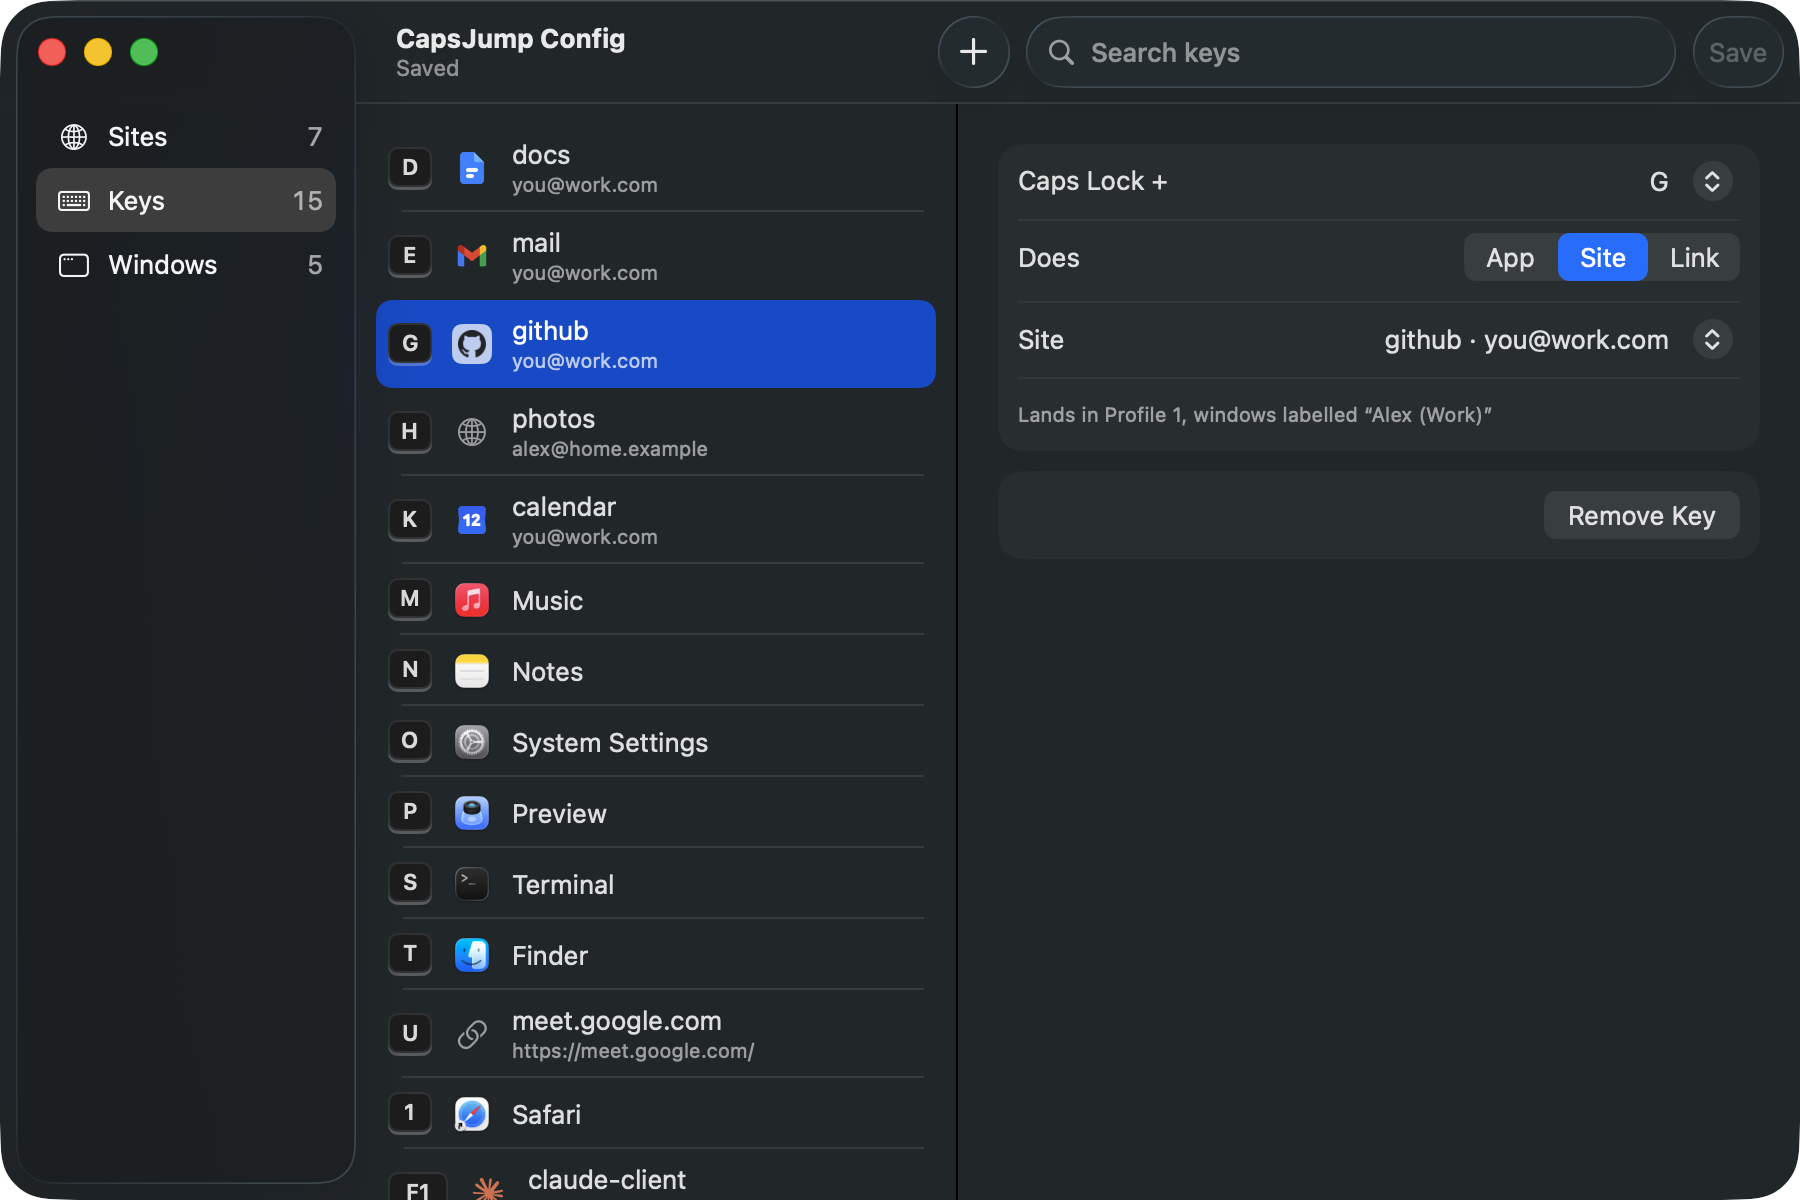
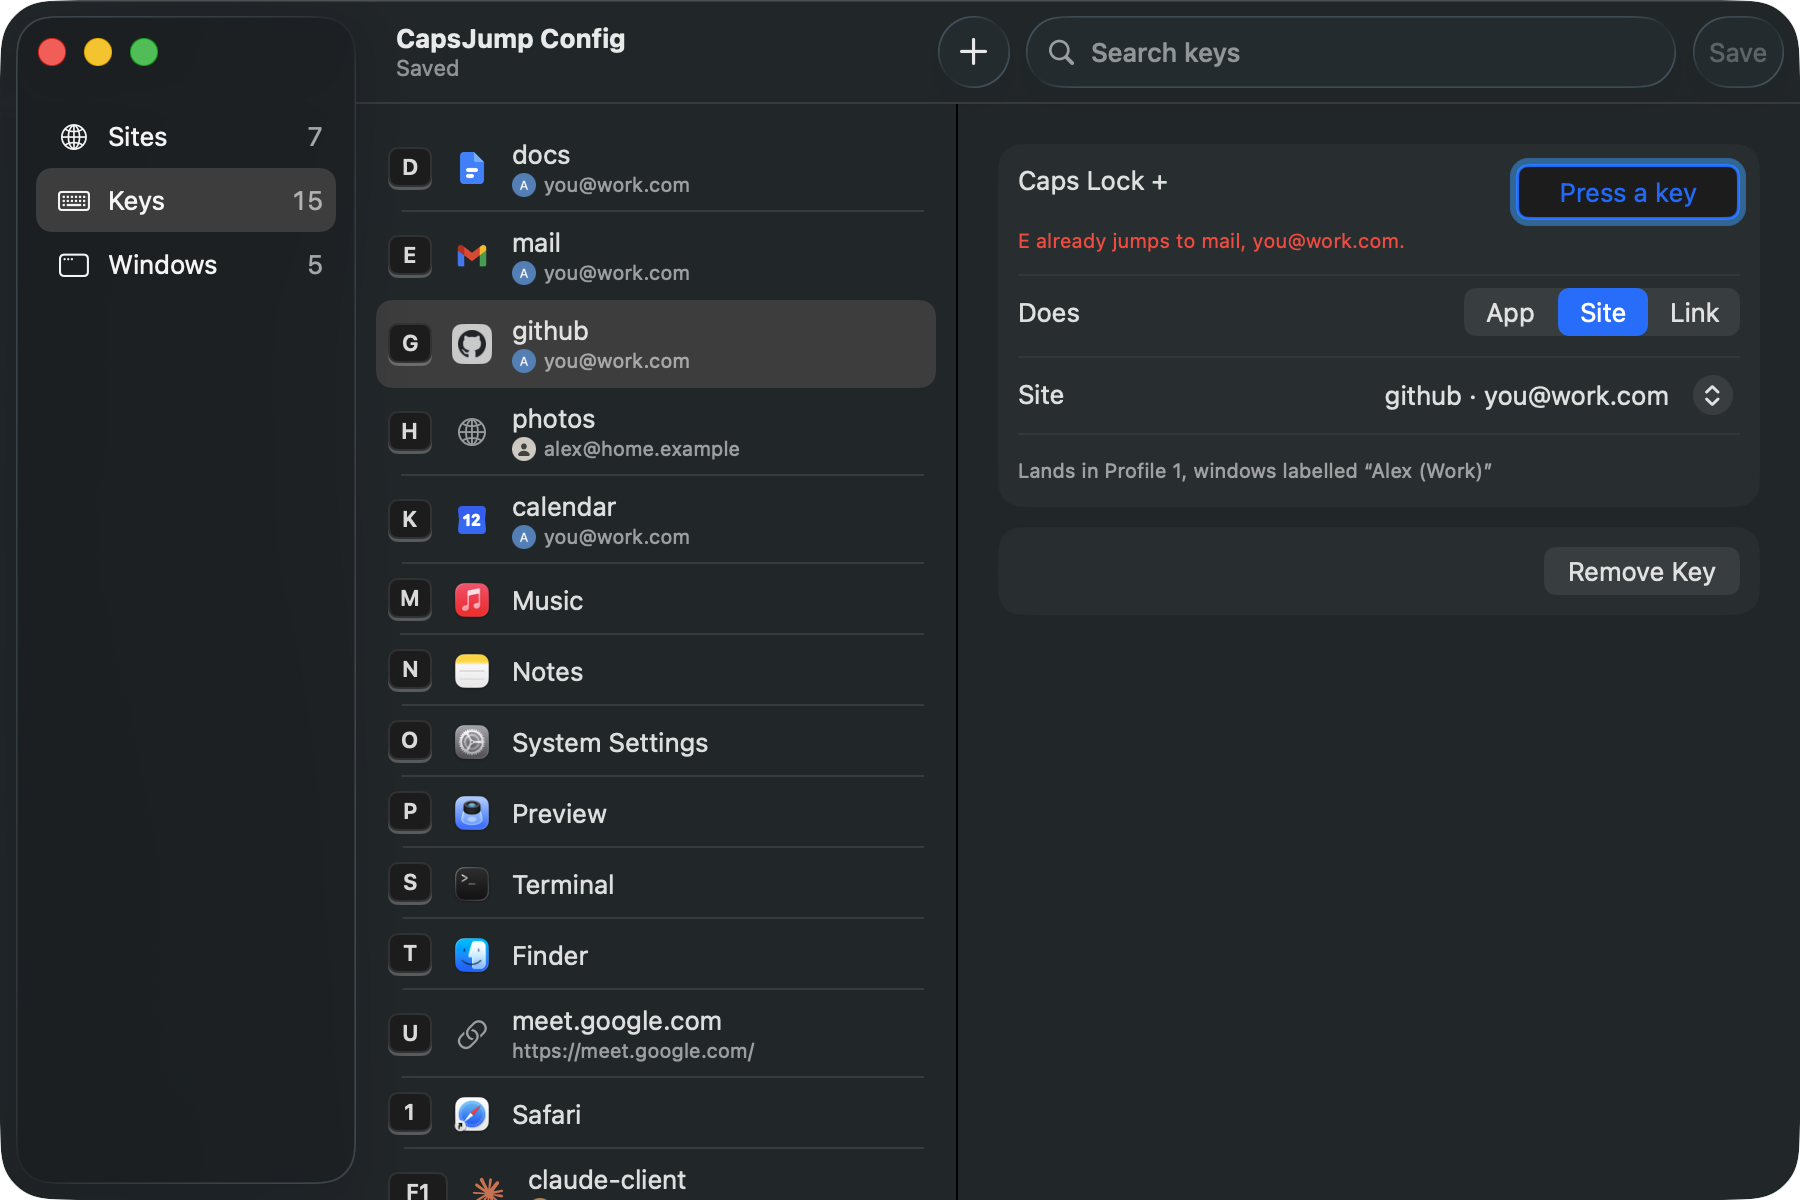
docs: the site and README show account pictures and the key field

diff --git a/site/index.html b/site/index.html
@@ -14,7 +14,7 @@
   <meta property="og:image" content="https://stigmer.github.io/capsjump/card.png">
   <meta property="og:image:width" content="1200">
   <meta property="og:image:height" content="630">
-  <meta property="og:image:alt" content="CapsJump's config window: every key as a keycap with the app's or the site's own icon and the site's account">
+  <meta property="og:image:alt" content="CapsJump's config window: every key as a keycap with the app's or the site's own icon and the account's picture, and the picked key's field waiting for a new key">
   <meta name="twitter:card" content="summary_large_image">
   <link rel="icon" href="icon.svg" type="image/svg+xml">
   <link rel="apple-touch-icon" href="icon.png">
@@ -80,7 +80,7 @@
       </article>
       <article>
         <h2>Windows</h2>
-        <p><kbd>Caps</kbd> + an arrow sends the front window to that half of the screen: <kbd>←</kbd> <kbd>→</kbd> <kbd>↑</kbd> <kbd>↓</kbd>. <kbd>Caps</kbd> + <kbd>F</kbd> and it goes big. Rather other keys? Pick them, or turn any off.</p>
+        <p><kbd>Caps</kbd> + an arrow sends the front window to that half of the screen: <kbd>←</kbd> <kbd>→</kbd> <kbd>↑</kbd> <kbd>↓</kbd>. <kbd>Caps</kbd> + <kbd>F</kbd> and it goes big. Rather other keys? Press the one you want, or turn any off.</p>
       </article>
       <article>
         <h2>Links</h2>
@@ -94,28 +94,28 @@
       <figure class="shot">
         <picture>
           <source media="(prefers-color-scheme: dark)" srcset="editor-keys-dark.png">
-          <img src="editor-keys.png" width="900" height="600" loading="lazy" alt="The config window on Keys: a sidebar with Sites, Keys and Windows, every key as a keycap with the app's icon or the site's own icon and its account, and the picked key, Caps Lock + G jumping to github, open for editing">
+          <img src="editor-keys.png" width="900" height="600" loading="lazy" alt="The config window on Keys: a sidebar with Sites, Keys and Windows, every key as a keycap with the app's icon or the site's own icon and its account's picture, and the picked key, Caps Lock + G jumping to github, its key field saying Press a key and, under it, E already jumps to mail, you@work.com">
         </picture>
-        <figcaption>Every key that takes you somewhere, on one list in keyboard order. Pick one and change what it does; the app's or the site's own icon says it found the right one. Type to search.</figcaption>
+        <figcaption>Every key that takes you somewhere, on one list in keyboard order. To change a key, click it and press the new one, with Caps Lock or without; a key that's taken says what it does already. Type to search.</figcaption>
       </figure>
       <figure class="shot">
         <picture>
           <source media="(prefers-color-scheme: dark)" srcset="editor-sites-dark.png">
-          <img src="editor-sites.png" width="900" height="600" loading="lazy" alt="The config window on Sites: each site with its own icon, its Chrome account, its host and the keys that land there, a globe for a site Chrome hasn't shown yet, and github open with its account, page and key">
+          <img src="editor-sites.png" width="900" height="600" loading="lazy" alt="The config window on Sites: each site with its own icon, its Chrome account and that account's picture, its host and the keys that land there, a globe for a site Chrome hasn't shown yet, and github open with its Account menu showing each account with its picture">
         </picture>
-        <figcaption>Each site with its own icon, its Chrome account and the keys that land on it. Rename one and its keys come along.</figcaption>
+        <figcaption>Each site with its own icon, its Chrome account (with the picture Chrome shows for it) and the keys that land on it. Rename one and its keys come along.</figcaption>
       </figure>
       <figure class="shot">
         <picture>
           <source media="(prefers-color-scheme: dark)" srcset="editor-windows-dark.png">
           <img src="editor-windows.png" width="900" height="600" loading="lazy" alt="The config window on Windows: left half, right half, top half, bottom half and whole screen, each with its key, and Top half open with a picture of the screen's upper half and Caps Lock + up arrow">
         </picture>
-        <figcaption>Every move a key can make, with the key that makes it. Change one, or turn it off.</figcaption>
+        <figcaption>Every move a key can make, with the key that makes it. Press a new one, or Delete to turn it off.</figcaption>
       </figure>
       <figure class="shot shot-small">
         <picture>
           <source media="(prefers-color-scheme: dark)" srcset="add-tab-dark.png">
-          <img src="add-tab.png" width="480" height="336" loading="lazy" alt="Add Current Tab: a Figma tab becomes a site named figma, in the Work account, on Caps Lock + I">
+          <img src="add-tab.png" width="480" height="336" loading="lazy" alt="Add Current Tab: a Figma tab becomes a site named figma, in the Work account with its picture, on Caps Lock + I">
         </picture>
         <figcaption>Page open in Chrome? <strong>Add Current Tab…</strong> names it, knows the account, offers a free key. Click Add.</figcaption>
       </figure>
@@ -158,7 +158,7 @@ capsjump init</code></pre>
       <h2>Good to know</h2>
       <ul>
         <li><strong>Chrome only, for sites.</strong> Site keys work with Google Chrome and its accounts; app, window and link keys work with anything.</li>
-        <li><strong>Site icons come from Chrome.</strong> Each site shows the icon Chrome has already saved on your Mac for that account. Nothing is fetched; a site Chrome hasn't shown there yet keeps a globe.</li>
+        <li><strong>Site icons and account pictures come from Chrome.</strong> Each site shows the icon Chrome has already saved on your Mac for that account, and each account the picture Chrome shows for it. Nothing is fetched; a site Chrome hasn't shown there yet keeps a globe.</li>
         <li><strong>Windows stay on their screen.</strong> A window snaps within the screen it is on; moving it to another screen isn't a key yet.</li>
         <li><strong>Not while typing a password.</strong> macOS keeps every app's shortcuts out of password fields; the keys work again as soon as you leave one.</li>
         <li><strong>Miss SHOUTING?</strong> Hold Shift, like everyone else. Or pause or quit CapsJump from its icon in the menu bar, and Caps Lock goes back to its old job at once.</li>

diff --git a/README.md b/README.md
@@ -36,13 +36,13 @@ The quickest way: open a page in Chrome and pick **Add Current Tab…** from Cap
 <p align="center">
   <picture>
     <source media="(prefers-color-scheme: dark)" srcset="site/editor-keys-dark.png">
-    <img src="site/editor-keys.png" width="840" alt="Edit Config…, Keys: each key as a keycap with the app's or the site's own icon and the site's account, and the picked key open for editing">
+    <img src="site/editor-keys.png" width="840" alt="Edit Config…, Keys: each key as a keycap with the app's or the site's own icon and the account's picture, and the picked key's field waiting for a new key">
   </picture>
 </p>
 <p align="center">
   <picture>
     <source media="(prefers-color-scheme: dark)" srcset="site/editor-sites-dark.png">
-    <img src="site/editor-sites.png" width="840" alt="Edit Config…, Sites: each site with its own icon, account, page and keys, and the picked site open for editing">
+    <img src="site/editor-sites.png" width="840" alt="Edit Config…, Sites: each site with its own icon, its account and the account's picture, page and keys, and the picked site's Account menu open">
   </picture>
 </p>
 <p align="center">
